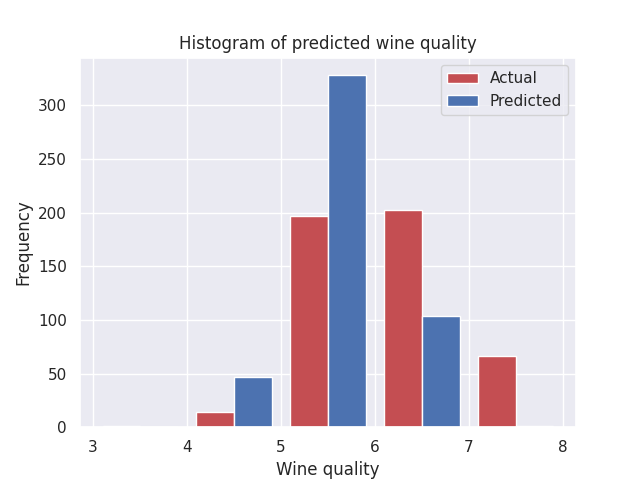
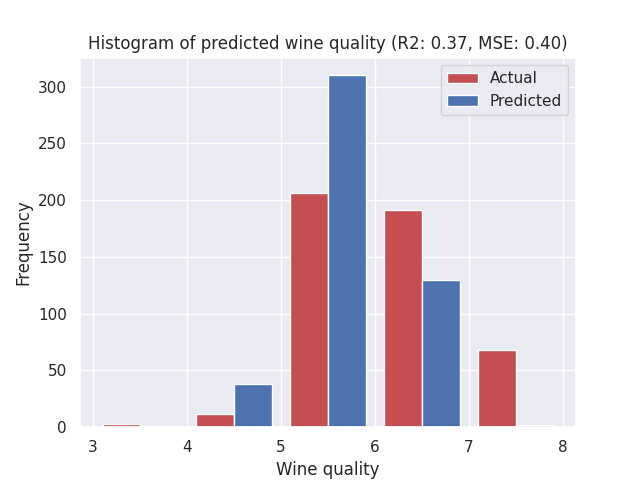
Support for feature selection

diff --git a/main.py b/main.py
@@ -12,6 +12,7 @@ parser = argparse.ArgumentParser(description='Train an SVR and get results')
 parser.add_argument('-l', '--location', metavar='', type=str, help='Location of your dataset', default = './data/winequality.csv')
 parser.add_argument('-tf', '--target_folder', metavar='', type=str, help='Target folder for results', default='./results')
 parser.add_argument('-ts', '--test_split', metavar='', type=float, help='Size of the test set compared to the entire dataset', default=0.3)
+parser.add_argument('-f', '--features', metavar='', type=str, nargs='+', help='Features to include during training', default=None)
 parser.add_argument('-k', '--kernel', metavar='', type=str, help='The kernel you wish to train the SVM with', default='linear')
 parser.add_argument('-d', '--degree', metavar='', type=int, help='Degree of the polynomial kernel function, must be non-negative', default=3)
 parser.add_argument('-g', '--gamma', metavar='', type=str, help='Kernel coefficient for rbf, poly and sigmoid', default='scale')
@@ -27,7 +28,11 @@ parser.add_argument('-mi', '--max_iter', metavar='', type=int, help='Hard limit 
 args = parser.parse_args()
 
 df = pd.read_csv(args.location)
-X = df.drop(columns='quality')
+
+if args.features != None:
+    X = df[args.features]
+else:
+    X = df.drop(columns='quality')
 y = df['quality']
 
 X_train, X_test, y_train, y_test = train_test_split(X, y, test_size=args.test_split)
@@ -51,11 +56,11 @@ model = SVR(
     max_iter=args.max_iter
     )
 
-if not os.path.exists(args.target_folder):
-    os.makedirs(args.target_folder)
-
 model.fit(X_train, y_train)
 y_pred = model.predict(X_test)
+
+if not os.path.exists(args.target_folder):
+    os.makedirs(args.target_folder)
 
 r2 = r2_score(y_test, y_pred)
 mse = mean_squared_error(y_test, y_pred)
@@ -73,16 +78,14 @@ plt.clf()
 df = pd.DataFrame({'Actual': y_test, 'Predicted': y_pred})
 sns.regplot(x='Actual', y='Predicted', data=df)
 sns.set_theme()
-plt.title('Regression plot for Actual vs Predicted values')
+plt.title('Regression plot for Actual vs Predicted values (R2: {:.2f}, MSE: {:.2f})'.format(r2, mse))
 plt.savefig(os.path.join(args.target_folder, 'regplot.png'))
 plt.clf()
 
 # Histogram to see how each bin compares to the nr of actual values
 plt.hist([y_test, y_pred], color= ['r', 'b'], bins=5)
 plt.legend (['Actual', 'Predicted'], loc = 'upper right')
-plt.title('Histogram of predicted wine quality')
+plt.title('Histogram of predicted wine quality (R2: {:.2f}, MSE: {:.2f})'.format(r2, mse))
 plt.xlabel('Wine quality')
 plt.ylabel('Frequency')
 plt.savefig(os.path.join(args.target_folder, 'histplot.png'))
-
-# No confusion matrix as this is a regression model
